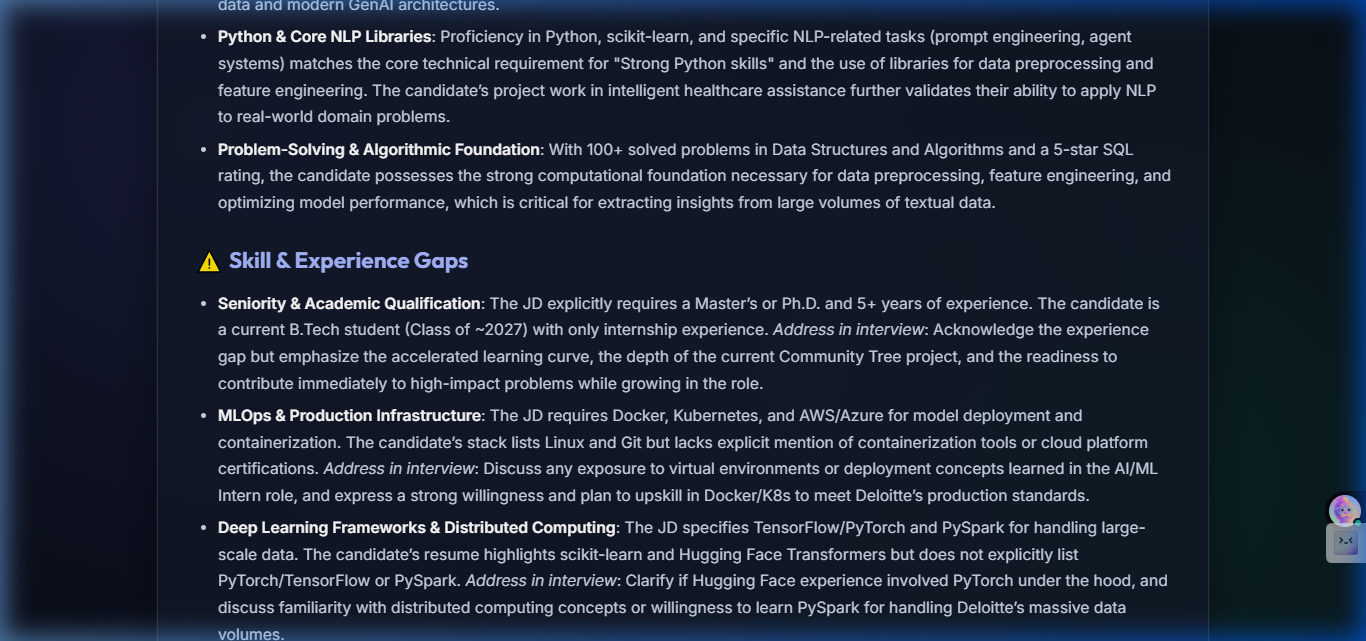
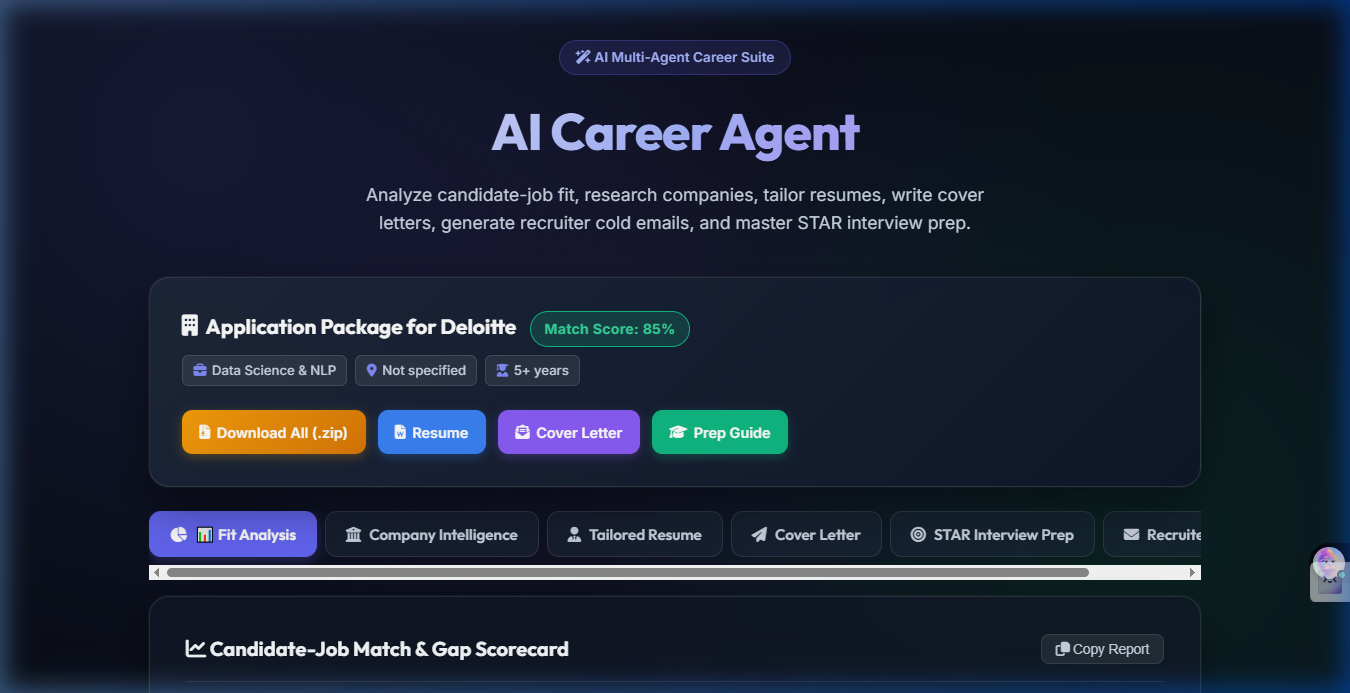
Update clean feature screenshots and video walkthrough across all tabs in README

diff --git a/tools/groq_helper.py b/tools/groq_helper.py
@@ -84,12 +84,12 @@ def clean_thinking_process(text):
     if not text:
         return ""
     text = re.sub(r'<think>.*?</think>', '', text, flags=re.DOTALL)
-    if re.match(r'^\s*(?:Thinking Process|Thinking|Reasoning):', text, re.IGNORECASE):
-        match = re.search(r'(\n#|\n\*\*|\n---|\n[1-9]\.\s+\*\*)', text)
+    if re.search(r'(?:Thinking Process|Deconstruct and Analyze|Candidate Resume:)', text[:400], re.IGNORECASE):
+        match = re.search(r'(\n#|\n\*\*|\n---|###|##|\n1\.\s+(?:Behavioral|Role|Technical|Executive|STAR|Candidate|Question|Overview))', text)
         if match:
             text = text[match.start():]
         else:
-            text = re.sub(r'^\s*(?:Thinking Process|Thinking|Reasoning):.*?\n\n', '', text, flags=re.DOTALL | re.IGNORECASE)
+            text = re.sub(r'^\s*(?:Thinking Process|Thinking|Reasoning|Deconstruct).*?\n\n', '', text, flags=re.DOTALL | re.IGNORECASE)
     return text.strip()
 
 def call_groq_completion(messages, model=None, response_format=None, max_retries=3, temperature=0.7, max_tokens=1500):

diff --git a/README.md b/README.md
@@ -28,25 +28,33 @@ An autonomous, multi-agent AI platform that streamlines the job application proc
 - Calculates a quantitative **Match Score (0–100%)**.
 - Highlights **Top Strengths**, **Skill & Experience Gaps**, and **High-Impact Keywords** to emphasize during interviews.
 
-### 2. 🌐 Job Posting URL Auto-Scraper
-- Supports both **raw text** job descriptions and direct **HTTP/HTTPS posting URLs**.
-- Automatically strips boilerplate navigation/scripts, with fallback web search retrieval if a page is bot-protected.
+![Fit Analysis Scorecard](assets/demo_dashboard.png)
 
-### 3. 🏢 Real-Time Company & Industry Research
+### 2. 🏢 Real-Time Company & Industry Research
 - Uses **Tavily AI Search** to fetch company mission, product offerings, culture, and tech stack insights.
 
-### 4. 📄 Smart Resume Tailoring
+![Company Intelligence](assets/company_intelligence.png)
+
+### 3. 📄 Smart Resume Tailoring
 - Rewrites resume bullet points to map directly to key job requirements while preserving factual authenticity.
 
-### 5. ✉ Bespoke Cover Letters
+![Tailored Resume](assets/tailored_resume.png)
+
+### 4. ✉ Bespoke Cover Letters
 - Drafts personalized cover letter narratives aligned with company values and job expectations.
 
-### 6. 🎯 STAR Method & Technical Interview Prep
+![Cover Letter](assets/cover_letter.png)
+
+### 5. 🎯 STAR Method & Technical Interview Prep
 - Generates 5 role-specific behavioral questions with **Situation, Task, Action, Result** response strategies.
 - Provides technical Q&A and company culture alignment talking points.
 
-### 7. 📩 Recruiter & Hiring Manager Cold Email Generator
+![STAR Behavioral Interview Prep](assets/star_interview_prep.png)
+
+### 6. 📩 Recruiter & Hiring Manager Cold Email Generator
 - Drafts high-converting **Direct Email** templates and **LinkedIn InMail** messages customized to the candidate and company.
+
+![Recruiter Cold Email](assets/cold_email.png)
 
 ### 8. 📦 DOCX Export & 1-Click ZIP Packaging
 - Automatically generates formatted Microsoft Word (`.docx`) files for all assets.
